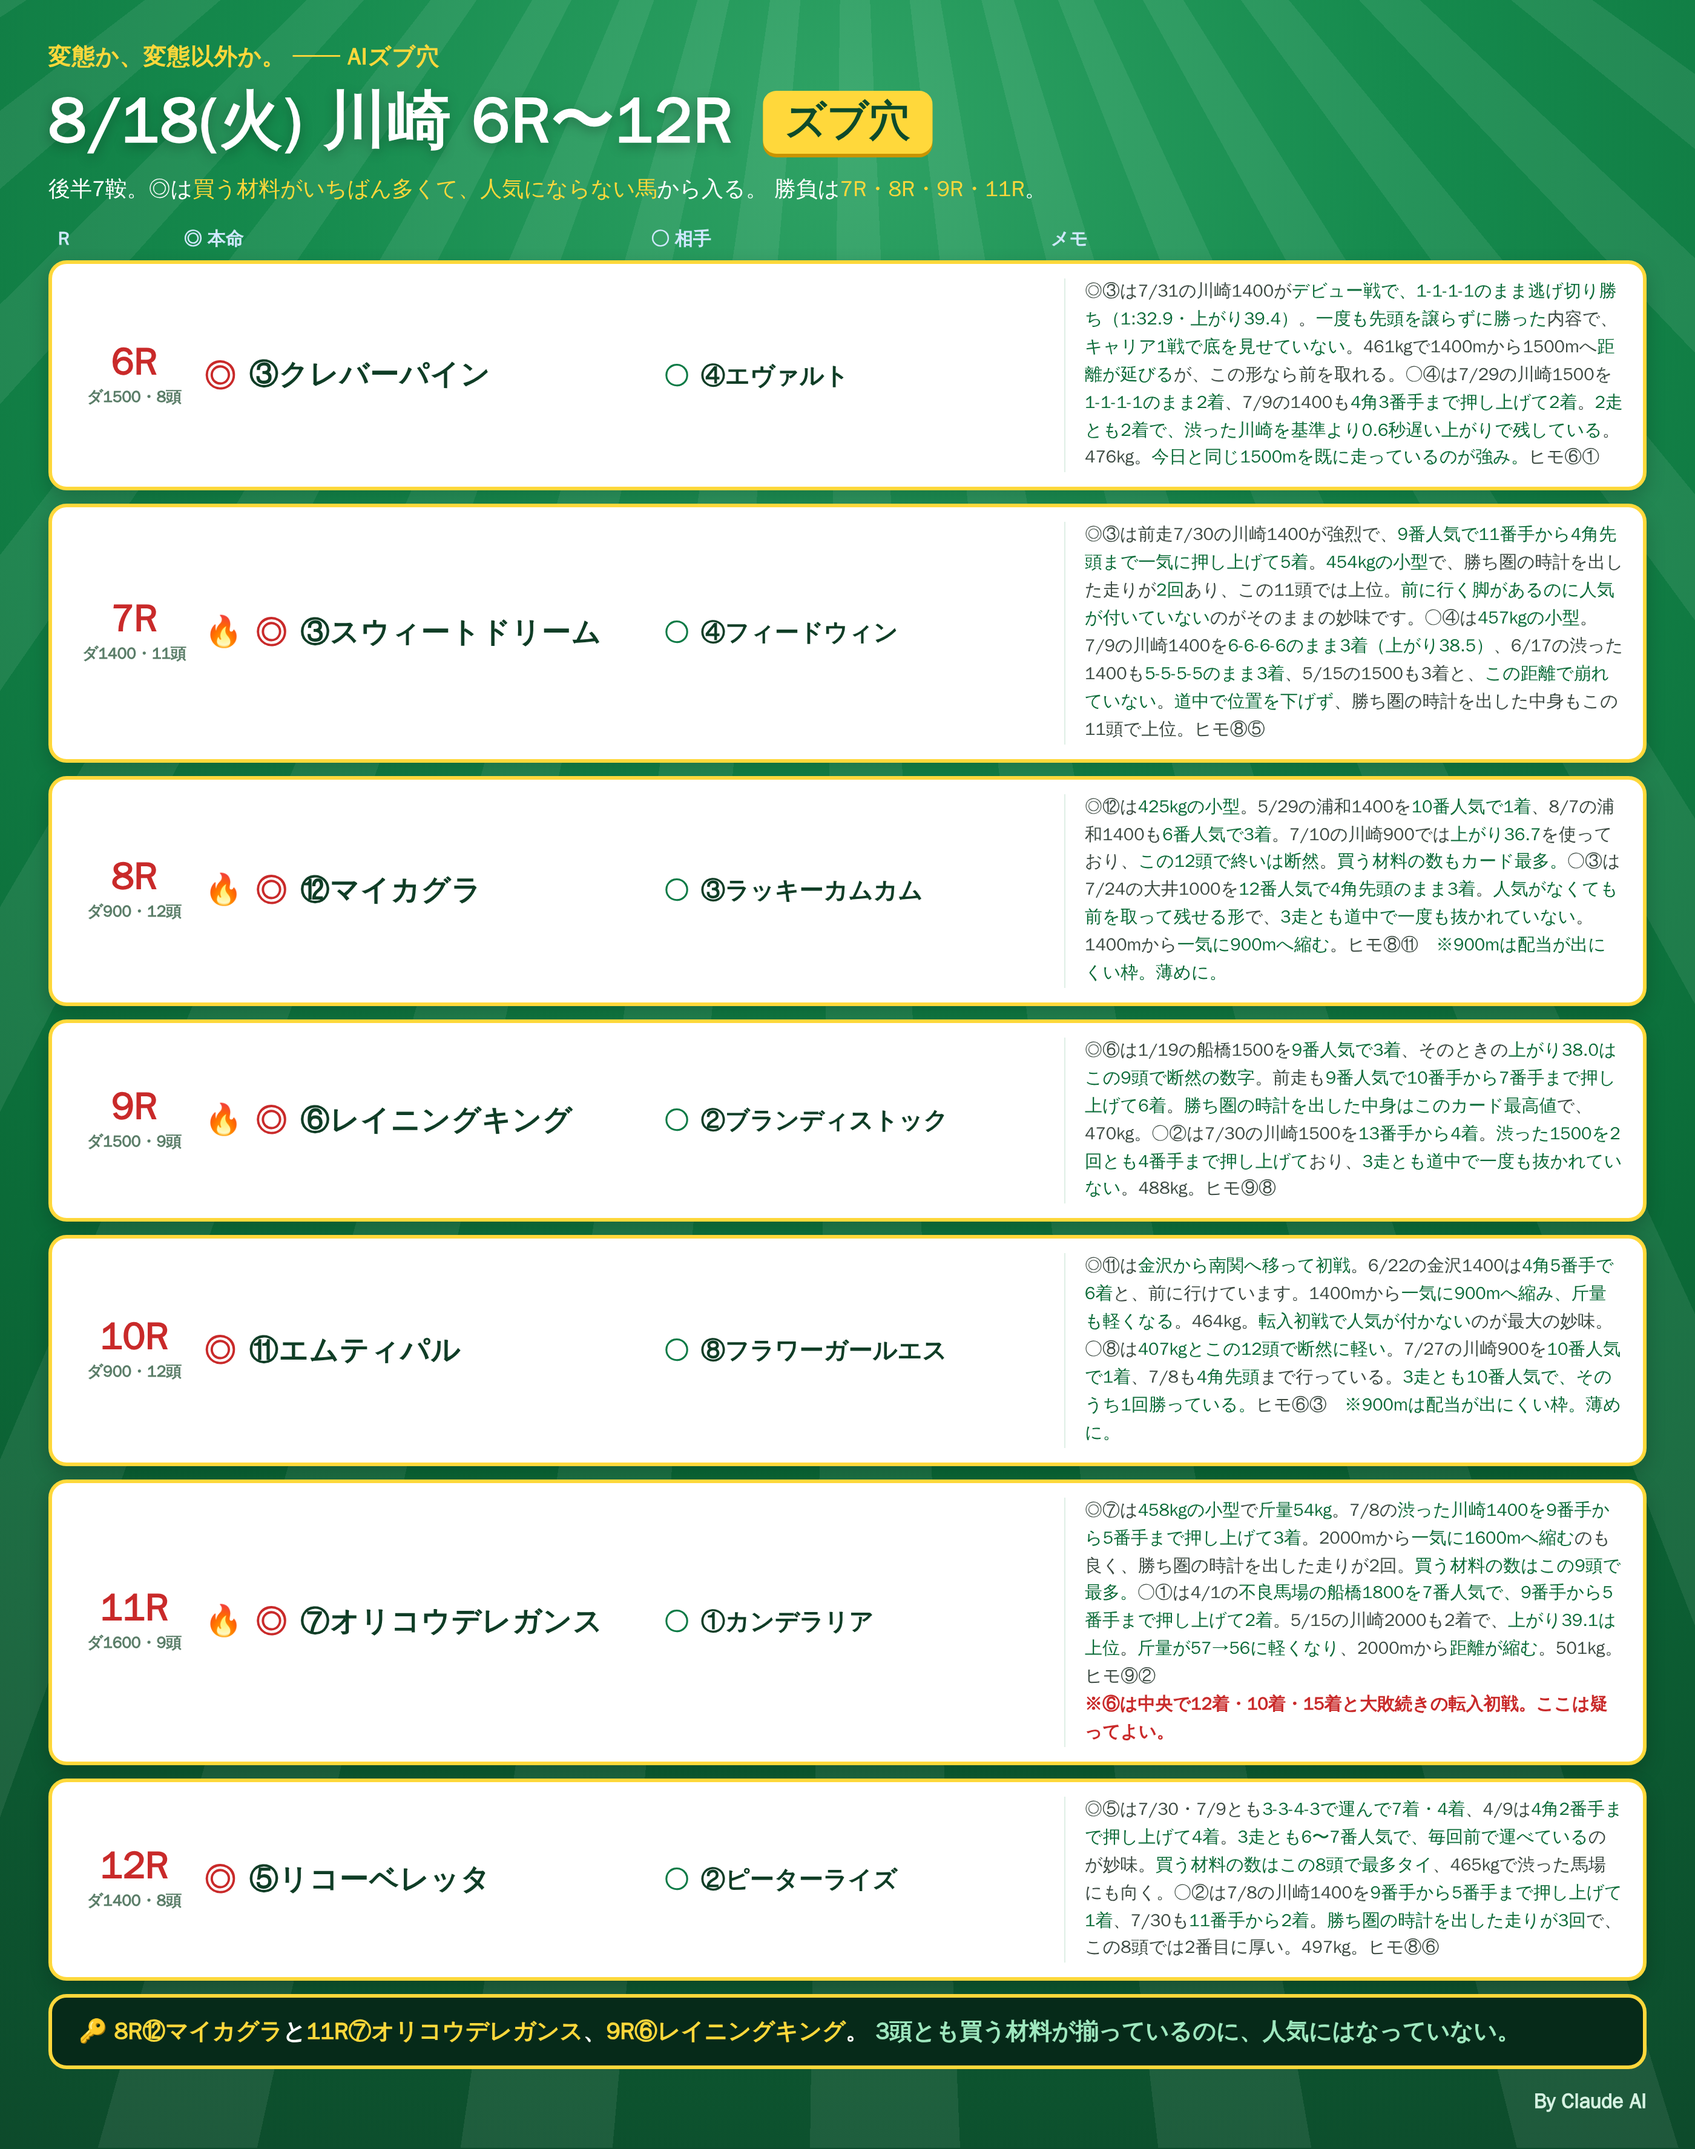
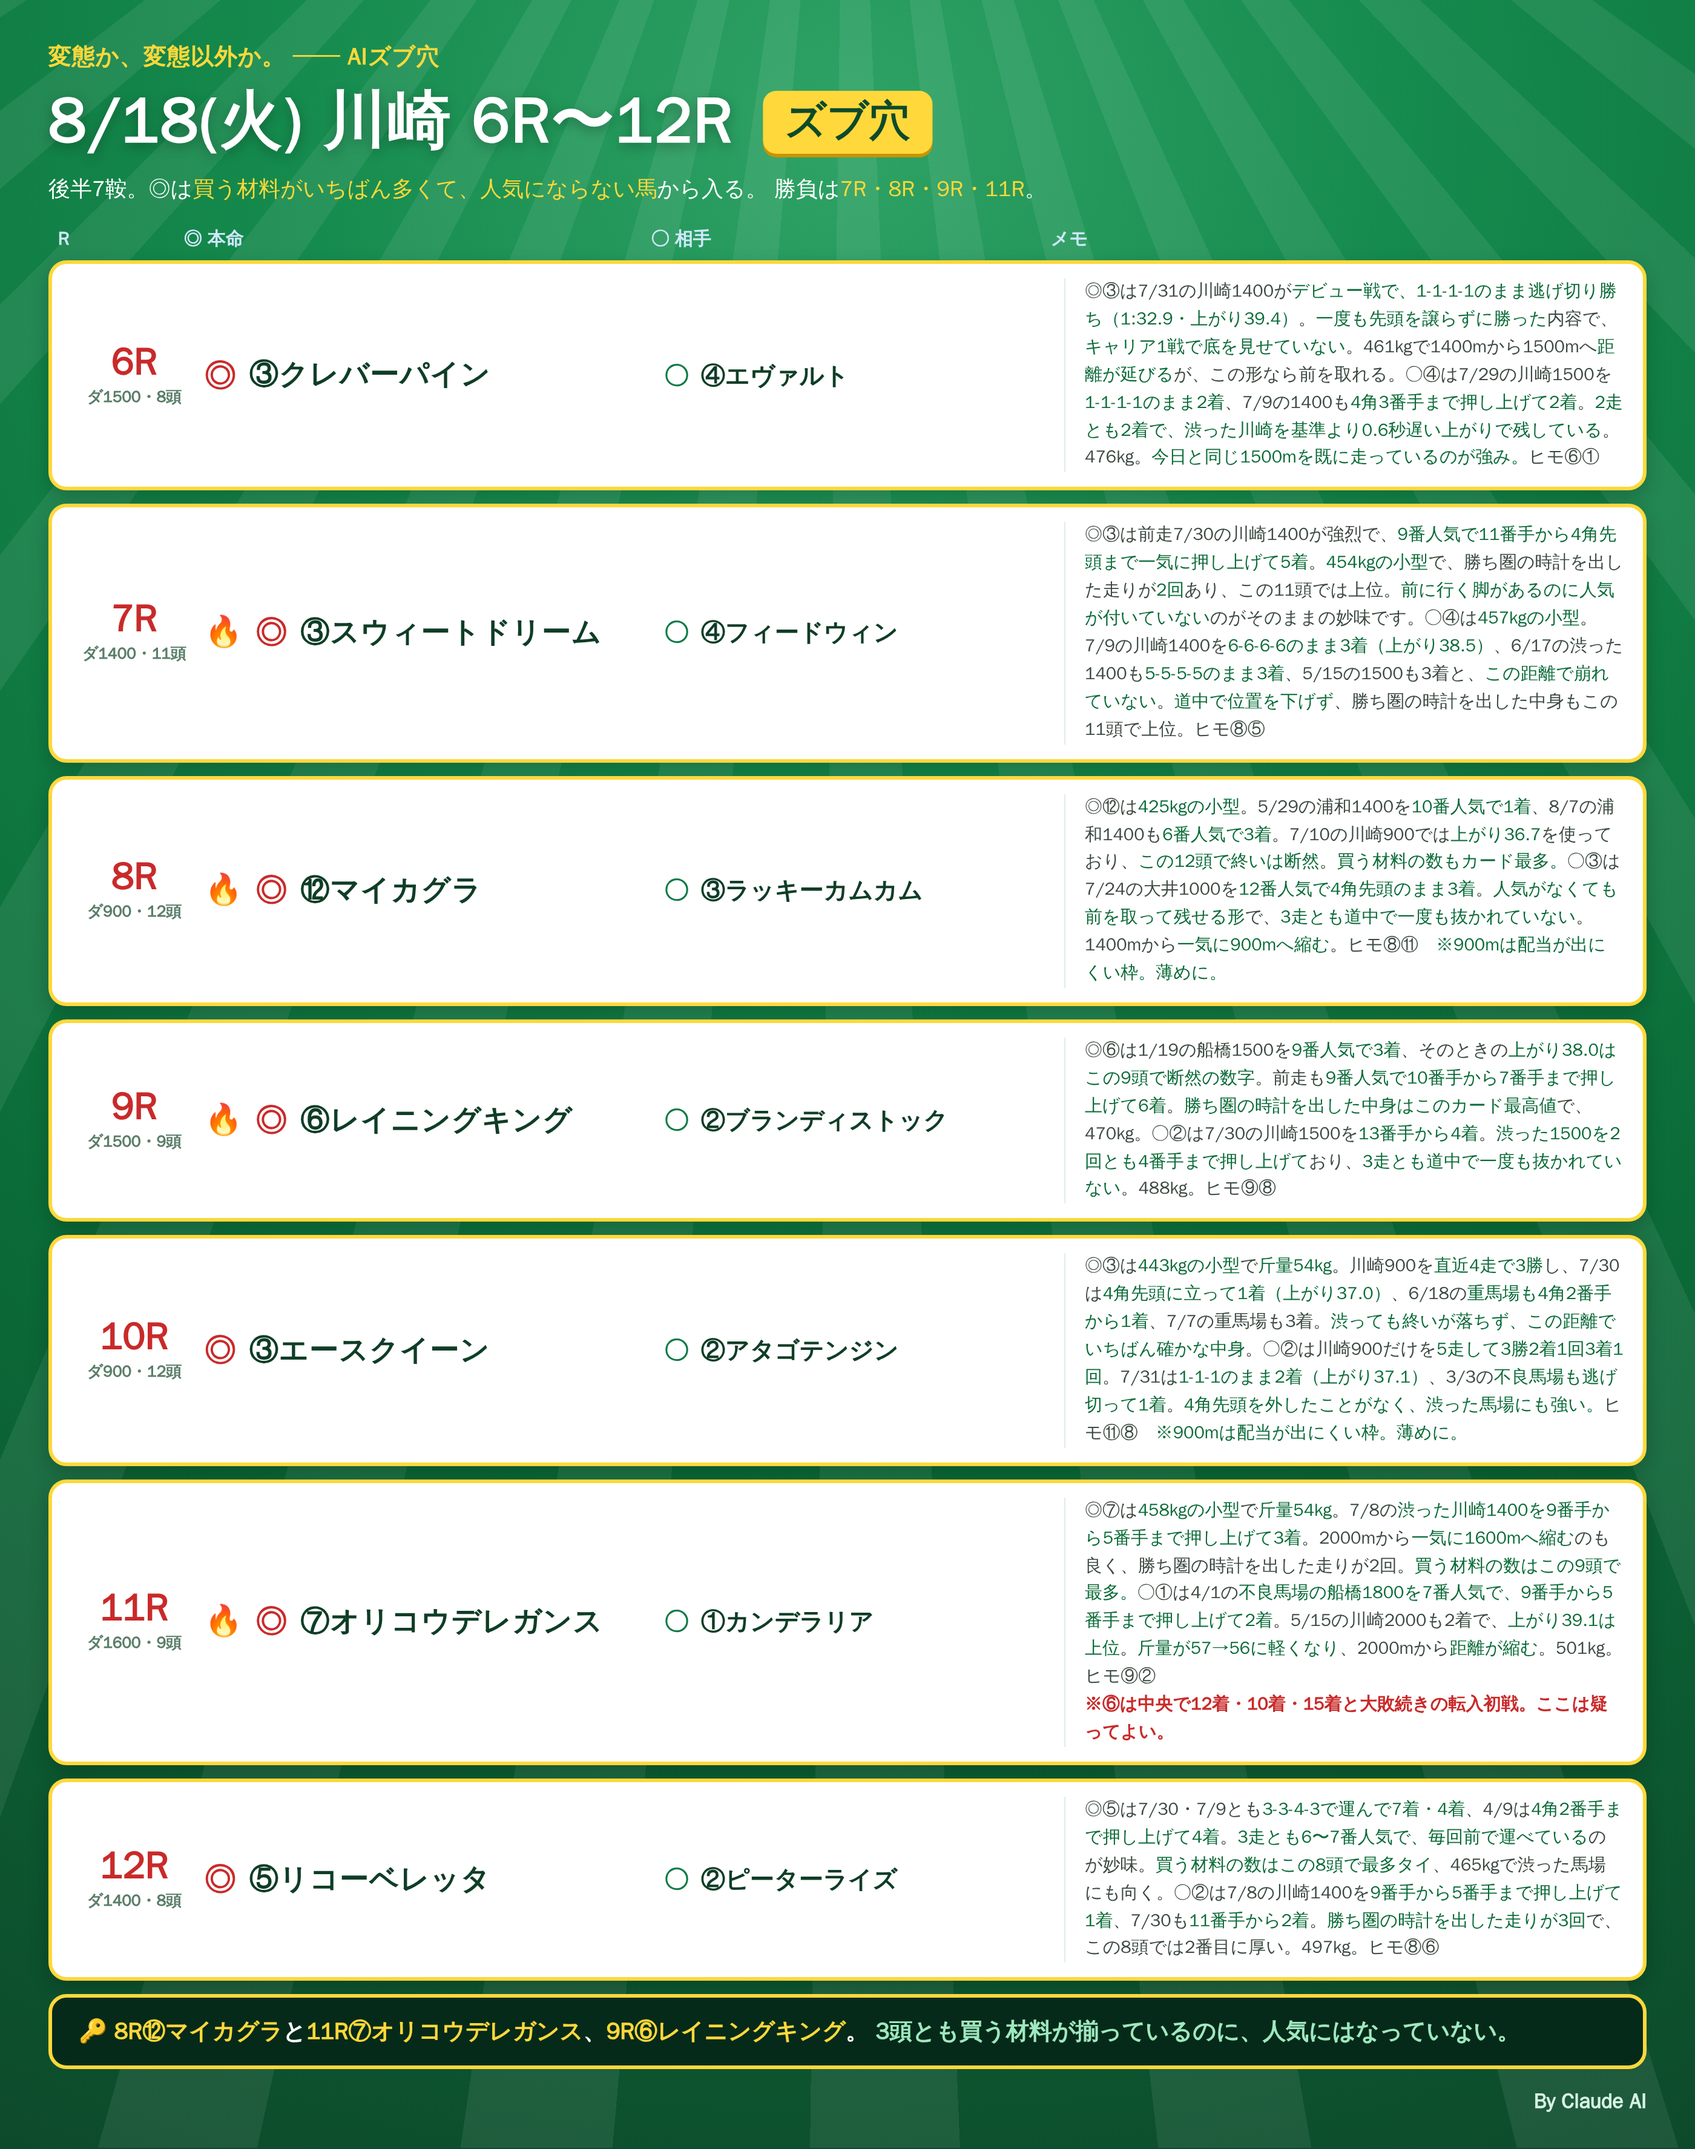
notes: 8/18 川崎 10R ◎③エースクイーン ○②アタゴテンジン に変更（トリプル馬単も連動）
Claude-Session: https://claude.ai/code/session_01RoHscZkr96FNaxQWvUqgEw

Changed region(s): [[0.6525, 0.5887, 0.9632, 0.6817], [0.435, 0.6197, 0.5282, 0.6507], [0.1864, 0.6197, 0.2796, 0.6507]]

diff --git a/notes/live/2026-08-18/kawasaki_triple_umatan.html b/notes/live/2026-08-18/kawasaki_triple_umatan.html
@@ -49,17 +49,17 @@
   </div>
 
   <div class="race r10">
-    <div class="rh"><span class="rn">10R</span><span class="rd">ダ900 ・ 12頭　紅蓮賞 Ｃ１選定馬</span><span class="rbadge">◎軸⑪エムティパル（買う材料が12頭で最多タイ・転入初戦）</span></div>
+    <div class="rh"><span class="rn">10R</span><span class="rd">ダ900 ・ 12頭　紅蓮賞 Ｃ１選定馬</span><span class="rbadge">◎軸③エースクイーン（川崎900を直近4走で3勝）</span></div>
     <div class="line"><div class="tag"><span class="t1">1着 本命</span></div><div class="chips">
-      <div class="chip honmei"><span class="no">11</span><span class="nm">エムティパル</span><span class="meta">エッジ4で12頭最多タイ・464kg・斤量減・1400→900の大幅短縮／<b>金沢から南関へ移って初戦＝人気が付かない</b></span></div></div></div>
+      <div class="chip honmei"><span class="no">3</span><span class="nm">エースクイーン</span><span class="meta">443kgの小型・斤54kg・エッジ4／川崎900を<b>直近4走で3勝</b>・7/30は4角先頭で1着(上がり37.0)・6/18の重も1着</span></div></div></div>
     <div class="line"><div class="tag"><span class="t2">1着 保険</span></div><div class="chips">
-      <div class="chip hoken"><span class="no">3</span><span class="nm">エースクイーン</span><span class="meta">3走とも1番人気（1着・3着・1着）・443kgの小型・4角先頭＝堅い側の保険</span></div></div></div>
+      <div class="chip hoken"><span class="no">2</span><span class="nm">アタゴテンジン</span><span class="meta">川崎900を5走して3勝・4角先頭を外したことがない・3/3の不良も逃げ切り＝前残り保険</span></div></div></div>
     <div class="line"><div class="tag"><span class="t3">2着 →</span></div><div class="chips">
-      <div class="chip aite ana"><span class="no">8</span><span class="nm">フラワーガールエス</span><span class="meta">407kg＝12頭で断然に軽い・斤53kg／7/27を<b>10番人気で1着</b>・3走とも10番人気</span></div>
+      <div class="chip aite ana"><span class="no">11</span><span class="nm">エムティパル</span><span class="meta">エッジ4で12頭最多タイ・464kg・斤量減・1400→900の大幅短縮／<b>金沢からの転入初戦</b></span></div>
       <div class="chip aite ana"><span class="no">6</span><span class="nm">キョウエイハゴロモ</span><span class="meta">7/27を9番人気で4角先頭から3着・減量51kgで最軽量斤量</span></div>
       <div class="chip aite"><span class="no">5</span><span class="nm">クレイスアバンティ</span><span class="meta">439kg・減量51kg・4角2番手</span></div>
-      <div class="chip aite"><span class="no">2</span><span class="nm">アタゴテンジン</span><span class="meta">3走とも4角先頭（2着・3着・1着）</span></div></div></div>
-    <div class="rc">⑪は<b>転入初戦で人気が付かないのが最大の妙味</b>だが、中身は薄い。<span class="o">2着筆頭の⑧は3走とも10番人気で、そのうち1回勝っている</span>＝900mでいちばん配当になる形なので、<b>⑪→⑧と⑧→⑪の両にらみでよい</b>。保険は3走とも1番人気の③。</div>
+      <div class="chip aite ana"><span class="no">8</span><span class="nm">フラワーガールエス</span><span class="meta">407kg＝12頭で断然に軽い・斤53kg／7/27を<b>10番人気で1着</b>・3走とも10番人気</span></div></div></div>
+    <div class="rc">③は<b>川崎900を直近4走で3勝</b>し、渋っても終いが落ちない＝この距離でいちばん確かな中身。<span class="o">保険は4角先頭を外したことがない②</span>で前残りを押さえる。2着は<b>⑪(転入初戦)と⑧(3走とも10番人気で1勝)の人気薄2頭</b>を厚く置き、ここで配当を作る。</div>
   </div>
 
   <div class="race r11">
@@ -92,11 +92,11 @@
 
   <div class="buys">
     <div class="buy hon"><div class="bt">▶ 本線（1着2頭 × 2着3頭）</div>
-      <div class="bl">10R <span class="a">⑪③</span>→<span class="s">⑧⑥⑤</span> ／ 11R <span class="a">⑦③</span>→<span class="s">①⑨⑧</span> ／ 12R <span class="a">⑤⑥</span>→<span class="s">②⑦⑧</span></div>
+      <div class="bl">10R <span class="a">③②</span>→<span class="s">⑪⑧⑥</span> ／ 11R <span class="a">⑦③</span>→<span class="s">①⑨⑧</span> ／ 12R <span class="a">⑤⑥</span>→<span class="s">②⑦⑧</span></div>
       <div class="bn">6×6×6＝<b>216点・10,800円</b>。1着を◎＋保険の2頭に割り、2着を3頭で受ける標準形（トリプル馬単は1点50円）。</div></div>
     <div class="buy hok"><div class="bt">▶ 絞り／総取り</div>
-      <div class="bl">絞り 1着を<span class="a">⑪・⑦・⑤</span>に固定 → 3×3×3＝<span class="a">27点・1,350円</span><br>総取り 8×8×8＝<span class="a">512点・25,600円</span>（2着を各4頭）</div>
-      <div class="bn">10Rは900mで<b>配当が出にくい枠</b>（前回開催は人気薄62頭で3着内4頭）。<b>10Rは⑪の中身が薄い</b>（⑧は3走とも10番人気でうち1勝）。絞るなら1着を⑪⑧の2頭に組み替えるのが実務的。11R・12Rは2着を4頭まで広げてよい。</div></div>
+      <div class="bl">絞り 1着を<span class="a">③・⑦・⑤</span>に固定 → 3×3×3＝<span class="a">27点・1,350円</span><br>総取り 8×8×8＝<span class="a">512点・25,600円</span>（2着を各4頭）</div>
+      <div class="bn">10Rは900mで<b>配当が出にくい枠</b>（前回開催は人気薄62頭で3着内4頭）。<b>10Rは1着を③②の堅い2頭で固め、2着に⑪⑧の人気薄を置いて配当を作る形</b>。11R・12Rは2着を4頭まで広げてよい。</div></div>
   </div>
 
   <div class="foot"><span>川崎 8/18 トリプル馬単 10R→11R→12R ／ 1着本命＝人気を被らない馬・1着保険＝堅い側</span><span><b>By Claude AI</b></span></div>

diff --git a/notes/live/2026-08-18/kawasaki_6_12.html b/notes/live/2026-08-18/kawasaki_6_12.html
@@ -83,9 +83,9 @@
 
   <div class="row">
     <div class="rN"><div class="n">10R</div><div class="d">ダ900・12頭</div></div>
-    <div class="hm"><span class="mk">◎</span><span class="nm">⑪エムティパル</span></div>
-    <div class="at"><span class="mk2">○</span><span class="nm2">⑧フラワーガールエス</span></div>
-    <div class="memo">◎⑪は<b>金沢から南関へ移って初戦</b>。6/22の金沢1400は<b>4角5番手で6着</b>と、前に行けています。1400mから<b>一気に900mへ縮み、斤量も軽くなる</b>。464kg。<b>転入初戦で人気が付かない</b>のが最大の妙味。○⑧は<b>407kgとこの12頭で断然に軽い</b>。7/27の川崎900を<b>10番人気で1着</b>、7/8も<b>4角先頭</b>まで行っている。<b>3走とも10番人気で、そのうち1回勝っている。</b>ヒモ⑥③　<b>※900mは配当が出にくい枠。薄めに。</b></div>
+    <div class="hm"><span class="mk">◎</span><span class="nm">③エースクイーン</span></div>
+    <div class="at"><span class="mk2">○</span><span class="nm2">②アタゴテンジン</span></div>
+    <div class="memo">◎③は<b>443kgの小型</b>で<b>斤量54kg</b>。川崎900を<b>直近4走で3勝</b>し、7/30は<b>4角先頭に立って1着（上がり37.0）</b>、6/18の<b>重馬場も4角2番手から1着</b>、7/7の重馬場も3着。<b>渋っても終いが落ちず、この距離でいちばん確かな中身</b>。○②は川崎900だけを<b>5走して3勝2着1回3着1回</b>。7/31は<b>1-1-1のまま2着（上がり37.1）</b>、3/3の<b>不良馬場も逃げ切って1着</b>。<b>4角先頭を外したことがなく、渋った馬場にも強い。</b>ヒモ⑪⑧　<b>※900mは配当が出にくい枠。薄めに。</b></div>
   </div>
 
   <div class="row">

diff --git a/notes/live/2026-08-18/README.md b/notes/live/2026-08-18/README.md
@@ -120,7 +120,7 @@
 | 12R ダ1400 | ⑤リコーベレッタ | ⑥ジーティーアグリム（3連勝中・399=10.4本物4で断然） | ②⑦⑧③ |
 
 - 本線 6×6×6＝**216点・10,800円**：10R ⑪③→⑧⑥⑤ ／ 11R ⑦③→①⑨⑧ ／ 12R ⑤⑥→②⑦⑧
-- 絞り：1着を **⑪・⑦・⑤** に固定 → 3×3×3＝**27点・1,350円**
+- 絞り：1着を **③・⑦・⑤** に固定 → 3×3×3＝**27点・1,350円**
 - ⚠ **10Rは⑪の中身が薄い。絞るなら1着を⑪⑧の2頭に組み替える。**
 
 ---
@@ -165,12 +165,12 @@
 ## トリプル馬単（オッズ確定版）
 | R | 1着本命 | 人気 | 1着保険 | 2着相手 |
 |---|---|---|---|---|
-| 10R | ⑪エムティパル | **12人気57.9** | ②アタゴテンジン（1人気2.9・3走とも4角先頭） | ⑧⑥③⑤ |
+| 10R | **③エースクイーン** | ─ | ②アタゴテンジン（4角先頭を外したことがない） | ⑪⑧⑥⑤ |
 | 11R | ⑦オリコウデレガンス | 5人気10.0 | ③スカイアクロス（2人気4.2） | ⑨①⑧④ |
 | 12R | ⑤リコーベレッタ | **8人気41.4** | ⑥ジーティーアグリム（1人気2.5・3連勝中） | ⑧②⑦③ |
 
 - 本線 6×6×6＝**216点・10,800円**：10R ⑪②→⑧⑥③ ／ 11R ⑦③→⑨①⑧ ／ 12R ⑤⑥→⑧②⑦
-- 絞り：1着を **⑪・⑦・⑤** に固定 → 3×3×3＝**27点・1,350円**
+- 絞り：1着を **③・⑦・⑤** に固定 → 3×3×3＝**27点・1,350円**
 - ⚠ 10Rは⑪(57.9倍)と⑧(53.8倍)がどちらも2桁人気。絞るなら1着を**⑪⑧**の2頭に組み替える。
 
 ## カラーテーマ
@@ -192,12 +192,12 @@
 | **7R ダ1400** | **③スウィートドリーム** | **④フィードウィン**（本人指定・457kgの小型・399=4.7本物1・川崎1400で3着3着・7/9に上がり38.5・下げ0） | ⑧⑤ |
 | **8R ダ900** | **⑫マイカグラ** | ③ラッキーカムカム | ⑧⑪ |
 | **9R ダ1500** | **⑥レイニングキング** | ②ブランディストック | ⑨⑧ |
-| 10R ダ900 | ⑪エムティパル | ⑧フラワーガールエス | ⑥③ |
+| 10R ダ900 | **③エースクイーン**（本人指定・443kgの小型・斤54kg・川崎900を直近4走で3勝・7/30は4角先頭で1着(上がり37.0)・6/18の重も1着） | **②アタゴテンジン**（本人指定・川崎900を5走して3勝・4角先頭を外したことがない・3/3の不良も逃げ切り） | ⑪⑧ |
 | **11R ダ1600** | **⑦オリコウデレガンス** | ①カンデラリア | ⑨② |
 | 12R ダ1400 | ⑤リコーベレッタ | ②ピーターライズ | ⑧⑥ |
 
 **トリプル馬単（確定）**
-- 本線 6×6×6＝216点・10,800円：10R ⑪③→⑧⑥⑤ ／ 11R ⑦③→①⑨⑧ ／ 12R ⑤⑥→②⑦⑧
-- 絞り：1着を ⑪・⑦・⑤ に固定 → 27点・1,350円
+- 本線 6×6×6＝216点・10,800円：10R ③②→⑪⑧⑥ ／ 11R ⑦③→①⑨⑧ ／ 12R ⑤⑥→②⑦⑧
+- 絞り：1着を ③・⑦・⑤ に固定 → 27点・1,350円
 
 **◎の運用方針（確定）**：◎＝人気を被らない馬／○＝中身がいちばん確かな馬。**○が人気側になるのは許容する。**
